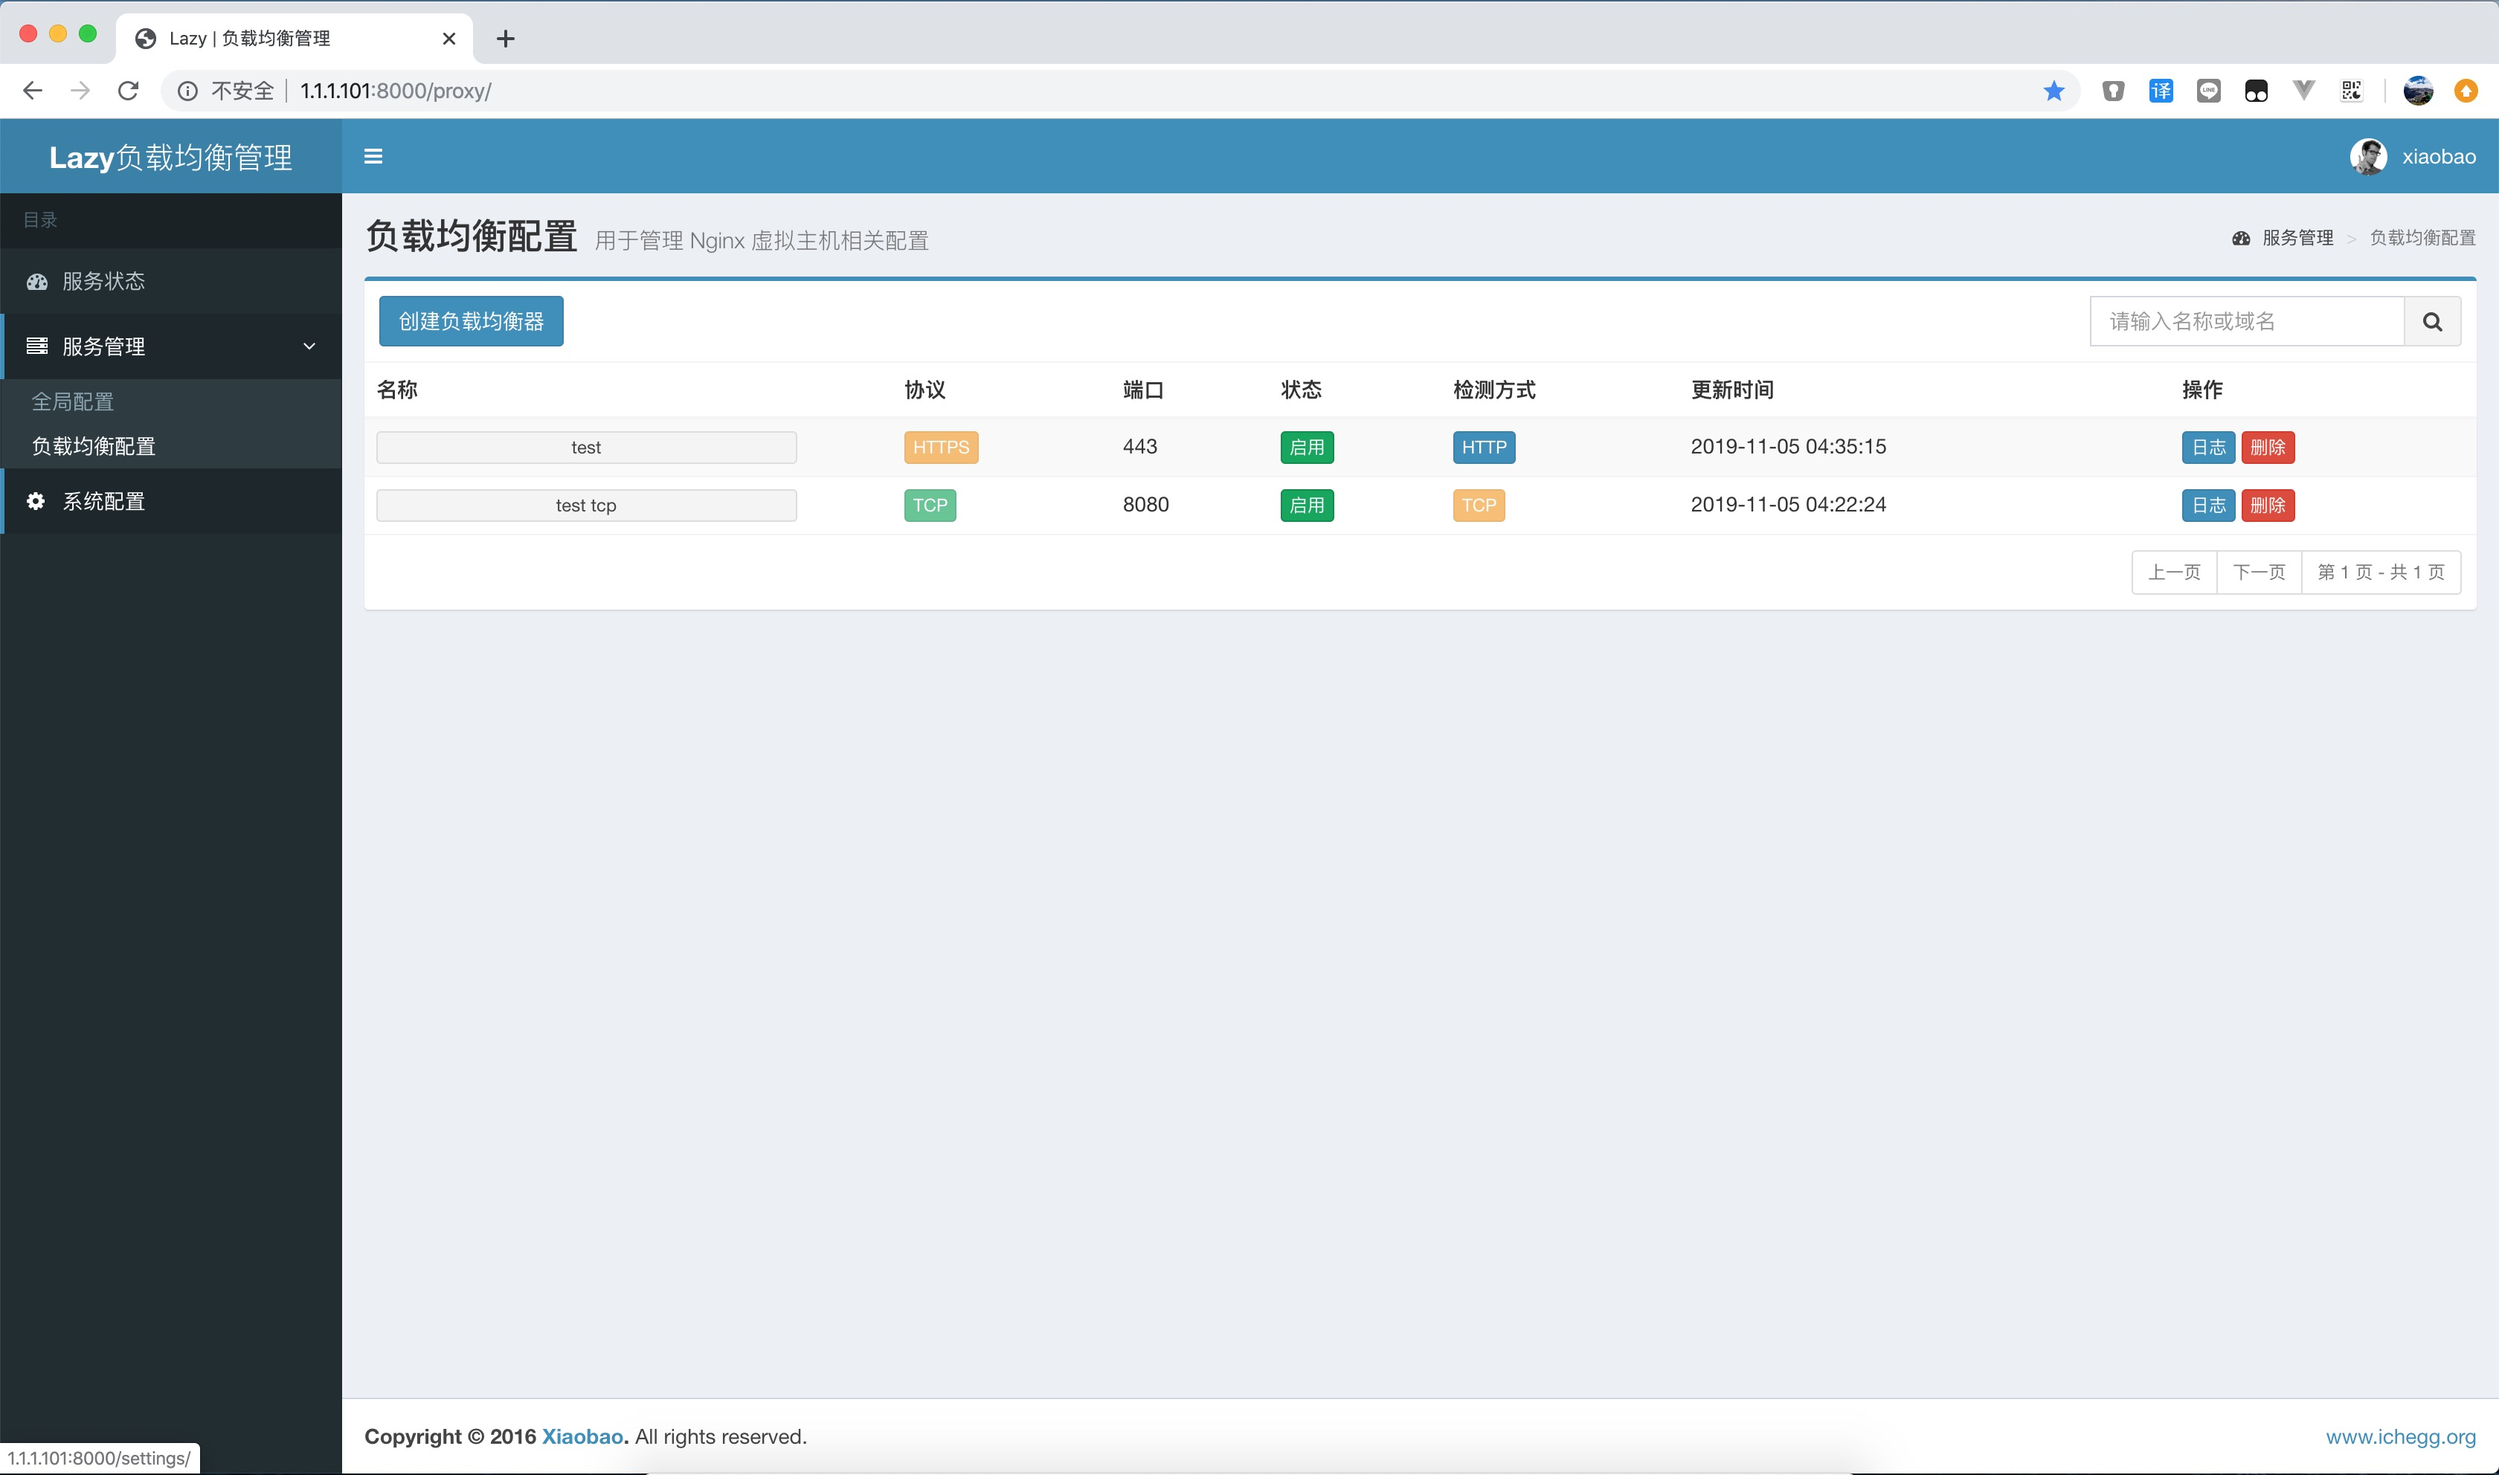
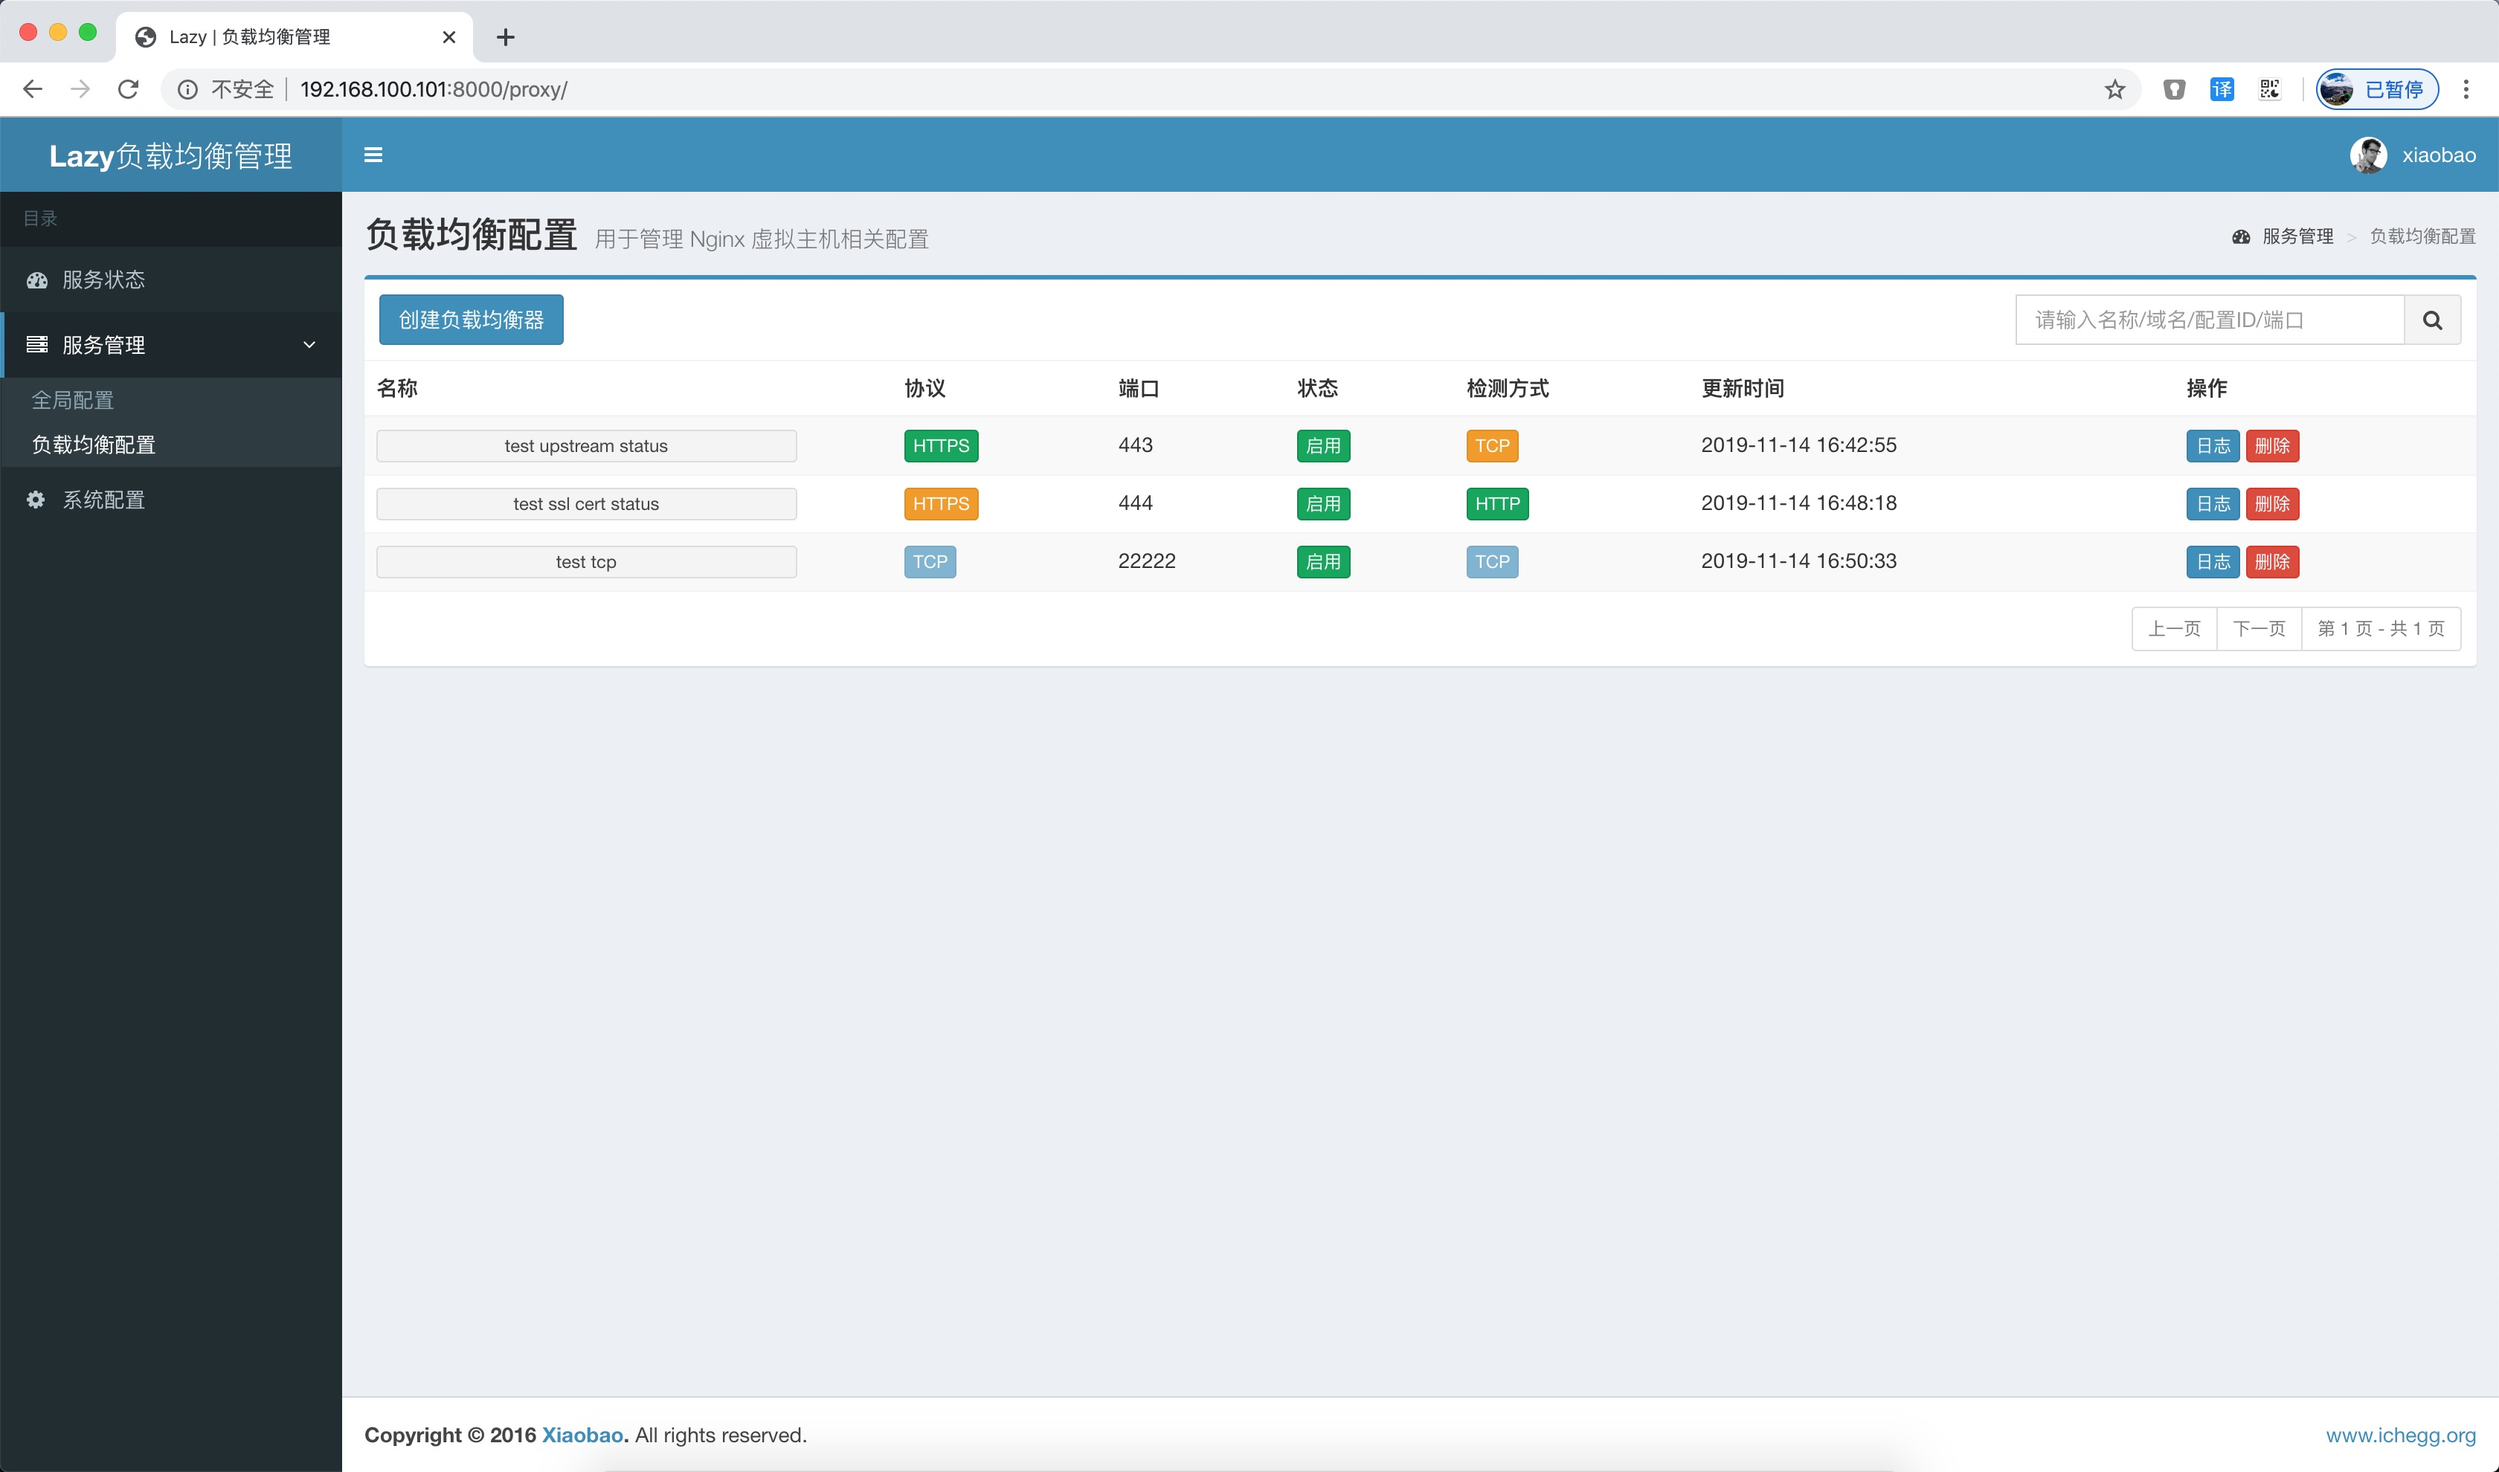
update readme

diff --git a/README.md b/README.md
@@ -11,7 +11,7 @@
 - 码云 - http://git.oschina.net/v55448330/lazy-balancer
 - OSCHINA - http://www.oschina.net/p/nginx-balancer
 
-## 更新（2019-11-12）
+## 更新（2019-11-14）
 * 新增 TCP 负载均衡支持
 * 新增配置同步功能
 * 支持后端服务器为 HTTPS 协议，当后端为 HTTPS 协议时，HTTP 健康检测将使用发送 SSL Hello 包的方式
@@ -19,8 +19,11 @@
 * 新增 HTTP/2，Gzip 等配置
 * 增加 Docker 支持
 * 去除原 iptables 防火墙管理功能
-* 协议为 HTTP/HTTPS 时，允许用户自定义 Server 级别 Nginx 配置
-* 当协议为 HTTPS 时，可以预览证书信息，及获取证书过期状态
+* 当协议为 HTTP/HTTPS 时，允许用户自定义 Server 级别 Nginx 配置
+* 当协议为 HTTP/HTTPS 时，可以在列表页预览后端节点状态
+* 当协议为 HTTPS 时，可以在列表页预览证书过期状态，及获取证书信息
+* 允许后端节点为域名格式
+* 增加 HTTP/80，HTTPS/443 的默认规则，禁止直接 IP 访问（返回444），证书路径在 `/etc/nginx/default.*`，可自行更换
 * 修复其他 Bug
 
 ## 更新
